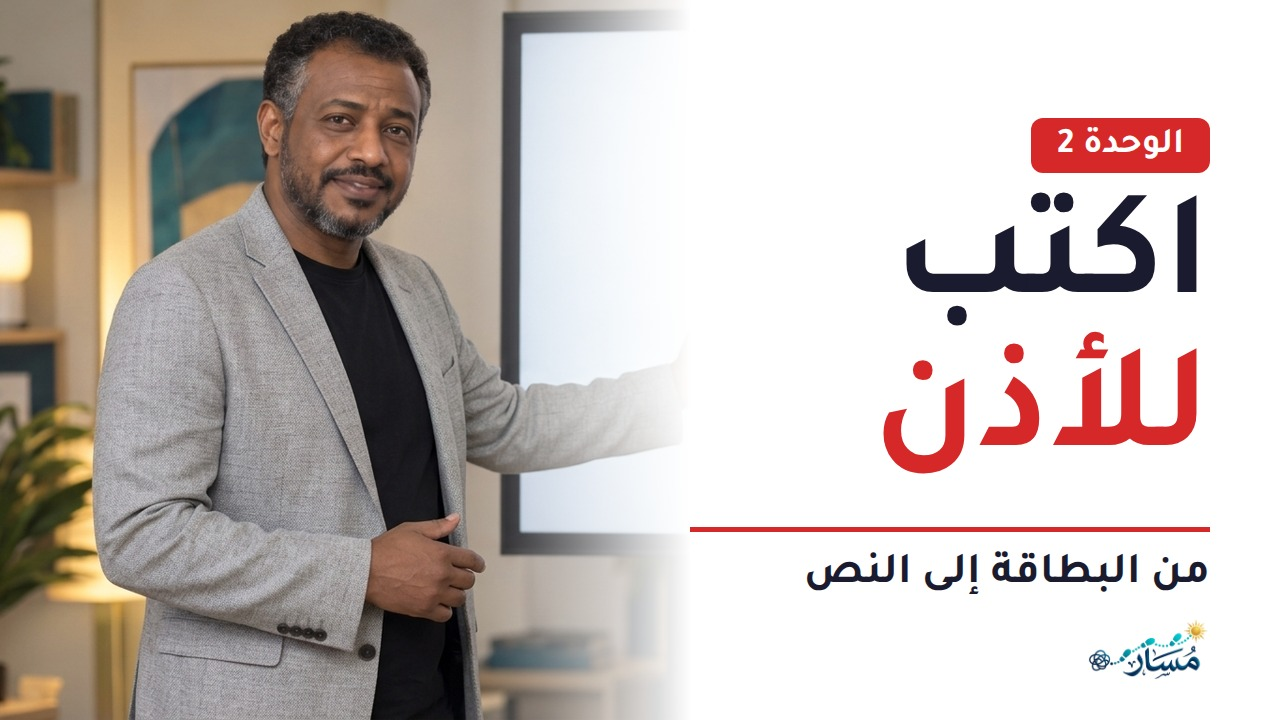
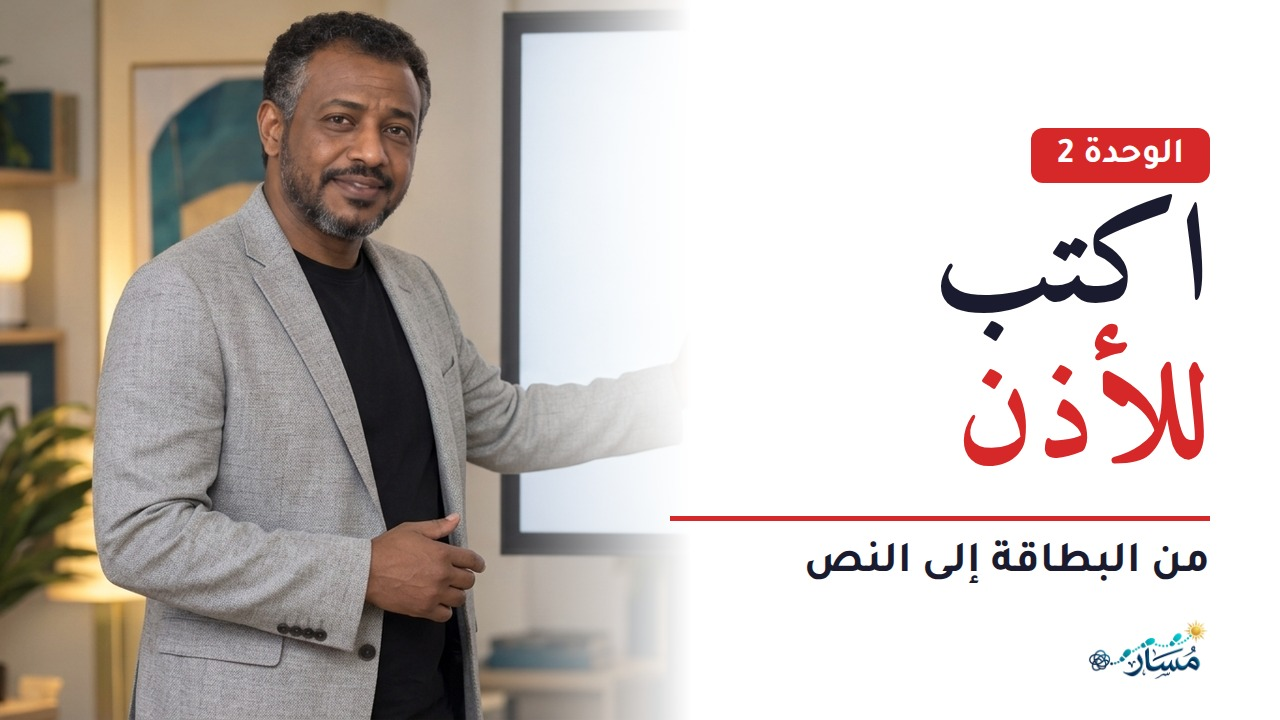
thumbnails: fixed template with Amiri titles (make_thumbnail.py); unit 2 fixed, unit 3 new; unit 3 YouTube package

Changed region(s): [[0.6875, 0.1528, 0.9688, 0.6722], [0.5312, 0.7028, 0.9688, 0.825]]

diff --git a/index-data.js b/index-data.js
@@ -105,6 +105,7 @@ const IDX = {
       { h: "تجميع الصوت (درس الوحدة 3)", d: "11 أكتوبر 2026", b: `كل جملة تُقص على حدود الكلام، مع تلاشٍ قصير في أولها وآخرها، وفاصل ثابت 0.45 ث بين الجمل (كالوحدة 2). الإصدار الأول من الوحدة 3 وصل الجمل بأذيالها المتفاوتة فبدا الصوت متقطعًا.` },
       { h: "بوابات الجودة قبل كل خطوة مدفوعة", d: "11 أكتوبر 2026", b: `الترتيب الإلزامي لكل فيديو: (1) السيناريو ← اعتماد. (2) جملتا الاختبار (سنتات) ← يسمعهما صاحب المشروع. (3) الأصوات كاملة (سنتات) ← تجميع بالطريقة الثابتة ← فحص آلي (الفواصل، والبدايات، والمستوى، والمدة) ← <b>يسمع صاحب المشروع الصوت المجمّع كاملًا</b>. (4) <b>مسودة فيديو مجانية</b> بصورة المقدّم الثابتة بدل مقطع الأفاتار ← يشاهدها ويعتمد التوقيت. (5) عندها فقط: مقاطع الأفاتار (الخطوة الأغلى) ← الإنتاج النهائي. لا تتخطى أي بوابة، ولو اعتمد صاحب المشروع اقتراحًا دون سماع. سجل التكلفة لكل وحدة في الإندكس.` },
       { h: "توزيع المحادثات: رئيسية للتفكير، وفرعية للتنفيذ", d: "11 أكتوبر 2026", b: `<b>المحادثة الرئيسية:</b> العصف الذهني، والقرارات، والمراجعة، بردود قصيرة وسريعة. <b>محادثة إنتاج لكل وحدة</b> (تبدأ من الوحدة 4): التنفيذ كله، برسالة «محادثة الإنتاج» في دليل الاستئناف. <b>الرابط بينها هو الإندكس:</b> الفرعية تكتب سجلها فيه، والرئيسية تقرؤه، فلا ينقل صاحب المشروع شيئًا بين المحادثات.` },
+      { h: "الصورة المصغرة: قالب وخط ثابتان", d: "11 أكتوبر 2026", b: `كل الصور المصغرة تُصنع بـ studio/make_thumbnail.py: العنوان بخط <b>الأميري العريض</b> (سطران، الثاني بالأحمر، ويصغر الخط تلقائيًا ليبقى كل سطر في سطر واحد)، والشارة والسطر الفرعي بتجوال، والمقدّم بلبس الوحدة يسارًا، والشعار. صُححت صورة الوحدة 2 إلى الأميري.` },
       { h: "الصوت المعتمد: George", d: "10 أكتوبر 2026", b: `ElevenLabs Multilingual V2 على WaveSpeed، صوت George، لكل فيديوهات مسار.` },
       { h: "توزيع العمل", d: "10 أكتوبر 2026", b: `هذه المحادثة: الاستراتيجية والمنصة ومحتوى الحقائب · مشروع «الحقيبة التدريبية»: تصميم الحقائب · مشروع «الاستوديو»: إنتاج الفيديو (ملف التسليم docs/STUDIO-HANDOFF.md). <b>الإندكس (index-data.js) تكتبه محادثة المشروع وحدها</b>؛ الاستوديو يكتب في studio/ و productions/ و media/ فقط، وسجله في studio/STATUS.md، ومحادثة المشروع تنقل منه إلى الإندكس. الأتمتة بثلاث درجات: الاستوديو ← Claude في المتصفح يشغّل WaveSpeed بالروابط ← Claude Code مع API. شرط الأمان: حد شهري في WaveSpeed، ولا Generate قبل الموافقة على السعر.` },
       { h: "الأسعار بثلاثة مستويات", d: "9 أكتوبر 2026", b: `مقاسة (جرّبناها) · منشورة (من صفحة الأسعار الرسمية مع التاريخ) · غير معروفة. مِرشاد لا يحتوي أسعارًا؛ نجمعها لأدوات كل مسار فقط (10–15 أداة).` }
@@ -159,6 +160,7 @@ const IDX = {
 </table>` }
     ]},
     { t: "سجل التحديثات", items: [
+      { h: "11 أكتوبر 2026 (28)", d: "الإصدار 1.9", b: `الوحدة 3: الإصدار الثاني أُنتج واعتمده صاحب المشروع (صوت بلا تقطيع) · حزمة يوتيوب publish/youtube/unit-3.md والصورة unit-3.jpg · صورة الوحدة 2 بخط الأميري · المصنع: make_thumbnail.py، ورفع الفيديو بعد pull --rebase.` },
       { h: "11 أكتوبر 2026 (27)", d: "الإصدار 1.9", b: `قرارات: «بوابات الجودة قبل كل خطوة مدفوعة» · «توزيع المحادثات» ورسالة محادثة الإنتاج في دليل الاستئناف · تقدير الإنتاج 10–12 د · المصنع يحفظ مقاطع المقدّم المكتملة حتى لو فشل ما بعدها · رصيد WaveSpeed نفد وشُحن (10$).` },
       { h: "11 أكتوبر 2026 (26)", d: "الإصدار 1.9", b: `الوحدة 3: الإصدار الأول أُنتج (≈1.8$) ولاحظ صاحب المشروع تقطيعًا في الصوت · الإصدار الثاني: إعادة 4 جمل، وتجميع جديد، وإعادة مقطعي المقدّم (≈1.6$) · قرار الانتظار والتوزيع.` },
       { h: "11 أكتوبر 2026 (25)", d: "الإصدار 1.9", b: `تصحيح قرار «الجودة أولًا»: لا سقف «10 دولارات للوحدة»؛ كان مثالًا من صاحب المشروع لا حدًا.` },

diff --git a/studio/make_thumbnail.py b/studio/make_thumbnail.py
@@ -1,0 +1,37 @@
+#!/usr/bin/env python3
+"""الصورة المصغرة ليوتيوب بقالب مسار الثابت (1280×720).
+الخطوط ثابتة لكل الوحدات: العنوان بالأميري العريض (Amiri-Bold)، والشارة والسطر الفرعي بتجوال العريض.
+التشغيل: python studio/make_thumbnail.py <صورة المقدّم> <رقم الوحدة> "<السطر الأول>" "<السطر الثاني بالأحمر>" "<السطر الفرعي>" <ملف الناتج.jpg> [قص_يسار]
+"""
+import os, sys, tempfile
+from PIL import Image
+R = os.path.dirname(os.path.abspath(__file__))
+def main(photo, n, l1, l2, sub, out, crop_x='40'):
+    cx = int(crop_x); d = tempfile.mkdtemp()
+    fs = min(138, int(138 * 7.5 / max(len(l1), len(l2), 1)))  # سطر واحد لكل جزء، يصغر الخط مع الطول
+    im = Image.open(photo).convert('RGB'); s = 720 / im.height; im = im.resize((int(im.width * s), 720))
+    im.crop((cx, 0, cx + 720, 720)).save(f'{d}/p.png')
+    html = f'''<html dir="rtl"><head><style>
+@font-face{{font-family:A;src:url(file://{R}/fonts/Amiri-Bold.ttf)}}
+@font-face{{font-family:T;src:url(file://{R}/fonts/Tajawal-Bold.ttf)}}
+body{{margin:0;width:1280px;height:720px;overflow:hidden;background:#fff;position:relative}}
+.ph{{position:absolute;left:0;top:0;width:720px;height:720px;background:url(p.png) center/cover}}
+.fade{{position:absolute;left:470px;top:0;width:260px;height:720px;background:linear-gradient(to right,rgba(255,255,255,0),#fff 85%)}}
+.tx{{position:absolute;right:70px;top:0;width:540px;height:720px;display:flex;flex-direction:column;align-items:flex-start;justify-content:center;padding-bottom:40px}}
+.b{{font-family:T;background:#D62828;color:#fff;font-size:36px;padding:8px 26px 4px;border-radius:12px}}
+.h{{font-family:A;font-size:{fs}px;white-space:nowrap;line-height:1.12;color:#1B1B2F;margin-top:6px}}
+.h span{{color:#D62828}}
+.ln{{width:100%;height:5px;background:#D62828;margin:18px 0 18px}}
+.s{{font-family:T;font-size:44px;color:#1B1B2F}}
+.logo{{position:absolute;right:70px;bottom:40px;height:62px}}
+</style></head><body><div class="ph"></div><div class="fade"></div>
+<div class="tx"><div class="b">الوحدة {n}</div><div class="h">{l1}<br><span>{l2}</span></div><div class="ln"></div><div class="s">{sub}</div></div>
+<img class="logo" src="file://{R}/assets/logo.png"></body></html>'''
+    open(f'{d}/t.html', 'w', encoding='utf-8').write(html)
+    from playwright.sync_api import sync_playwright
+    with sync_playwright() as p:
+        b = p.chromium.launch(); pg = b.new_page(viewport={'width': 1280, 'height': 720})
+        pg.goto(f'file://{d}/t.html'); pg.wait_for_timeout(800); pg.screenshot(path=f'{d}/t.png'); b.close()
+    Image.open(f'{d}/t.png').convert('RGB').save(out, quality=92); print('✓', out)
+if __name__ == '__main__':
+    main(*sys.argv[1:])

diff --git a/publish/youtube/unit-3.md b/publish/youtube/unit-3.md
@@ -1,0 +1,40 @@
+# يوتيوب — مسار الفيديو · الوحدة 3
+
+- **الرابط:** (يُضاف بعد الرفع)
+- **الصورة المصغرة:** unit-3.jpg (1280×720)
+- **مستوى العرض:** غير مدرج · قائمة التشغيل: مسار الفيديو
+
+## العنوان
+الصوت نصف الفيديو: سجّل أو ولّد صوتًا واضحًا لفيديوك | مسار الفيديو · الوحدة 3
+
+## الوصف
+المشاهد يحتمل صورة متوسطة، ولا يحتمل صوتًا سيئًا. في هذه الوحدة نحوّل نصك إلى ملف صوت جاهز.
+
+ستتعلم في هذا الفيديو:
+• أربعة خيارات للصوت: صوتك، وصوت مولّد، ودبلجة، وبلا تعليق.
+• كيف تختار الأنسب لفيديوك من بطاقتك.
+• كيف تسجّل بهاتفك: المكان، والمسافة، ووضع الطيران.
+• كيف تولّد الصوت دون أخطاء نطق: صوت واحد، وجملتان للتجربة، وجملة جملة.
+• كيف تقيس مدة الصوت، ولماذا تختصر النص بدل أن تسرّع الصوت.
+
+مهمتك بعد المشاهدة:
+① اختر نوع الصوت من بطاقتك
+② سجّله أو ولّده مقطعًا مقطعًا
+③ قِس مدته واحفظه في ملف الإنجاز
+
+الفصول:
+0:00 الصوت نصف الفيديو
+0:09 أربعة خيارات للصوت
+0:26 اختر صوتك
+0:43 إن سجّلت بصوتك
+1:05 إن ولّدت الصوت
+1:22 قِس المدة
+1:41 مهمتك الآن
+
+الوحدة السابقة: اكتب للأذن ← https://youtu.be/nsGMvLMbmIM
+الوحدة التالية: الصورة.
+
+مسار الفيديو: حقيبة تدريبية من منصة مسار.
+المقدّم في هذا الفيديو شخصية مولّدة بالذكاء الاصطناعي.
+
+#صناعة_الفيديو #مسار_الفيديو #تعليم
